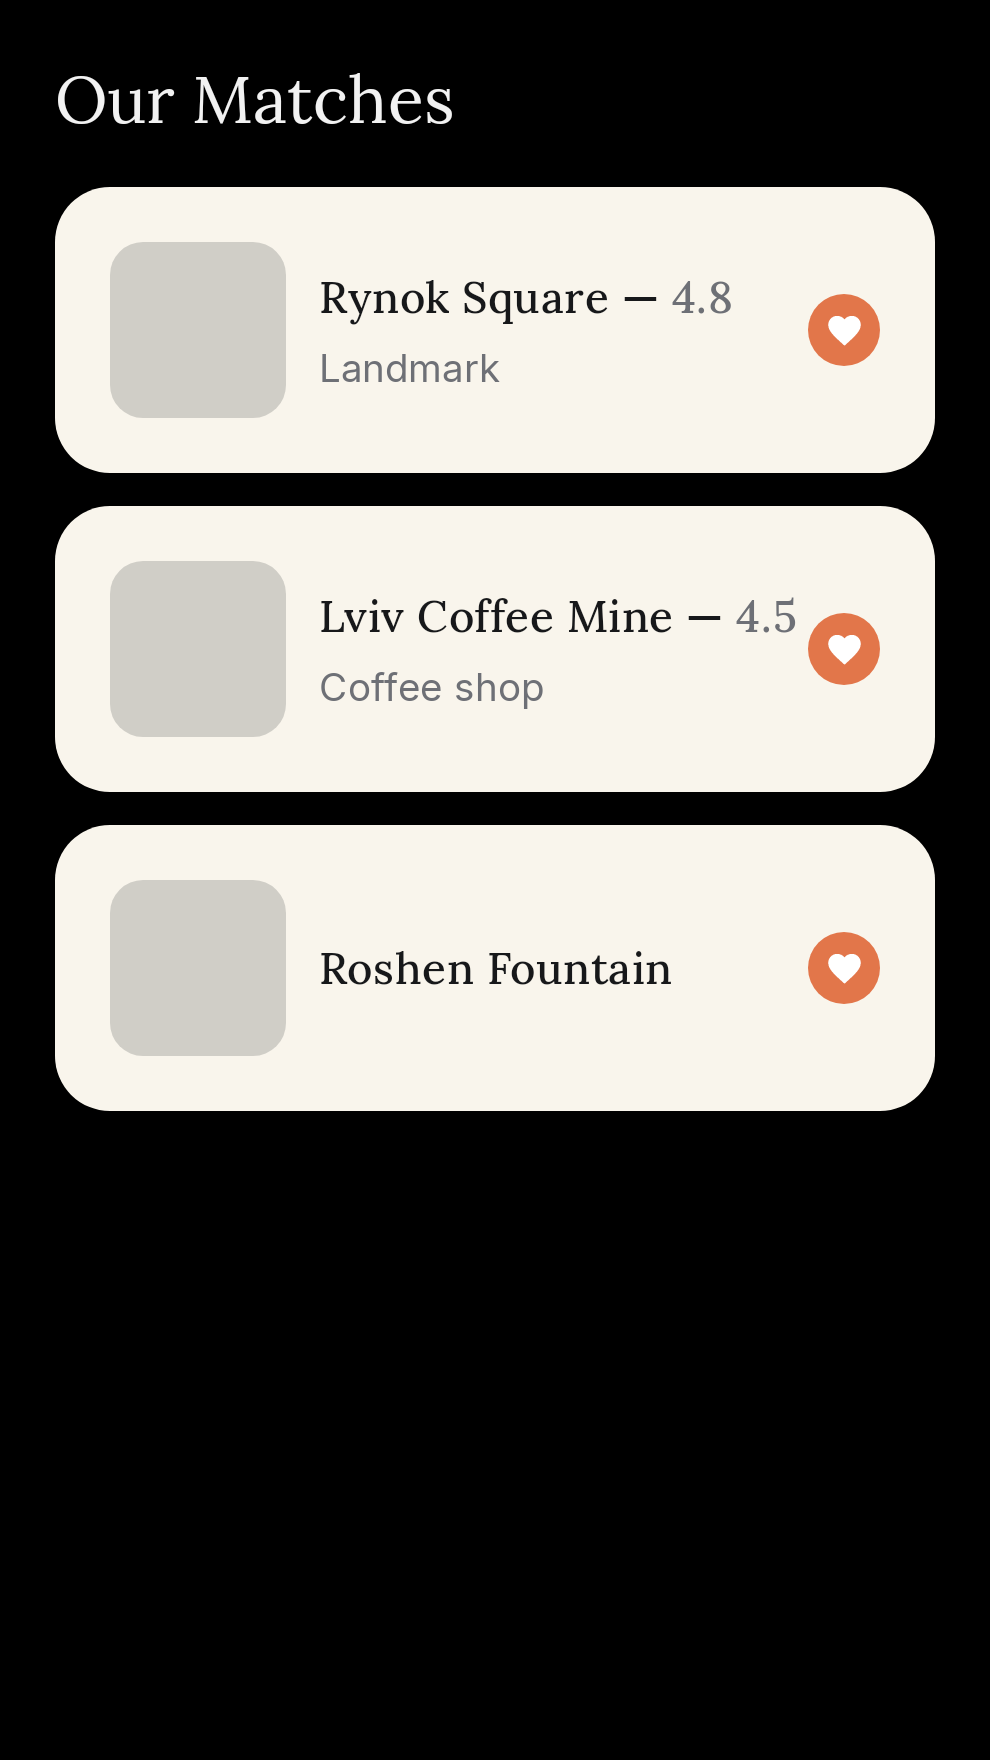
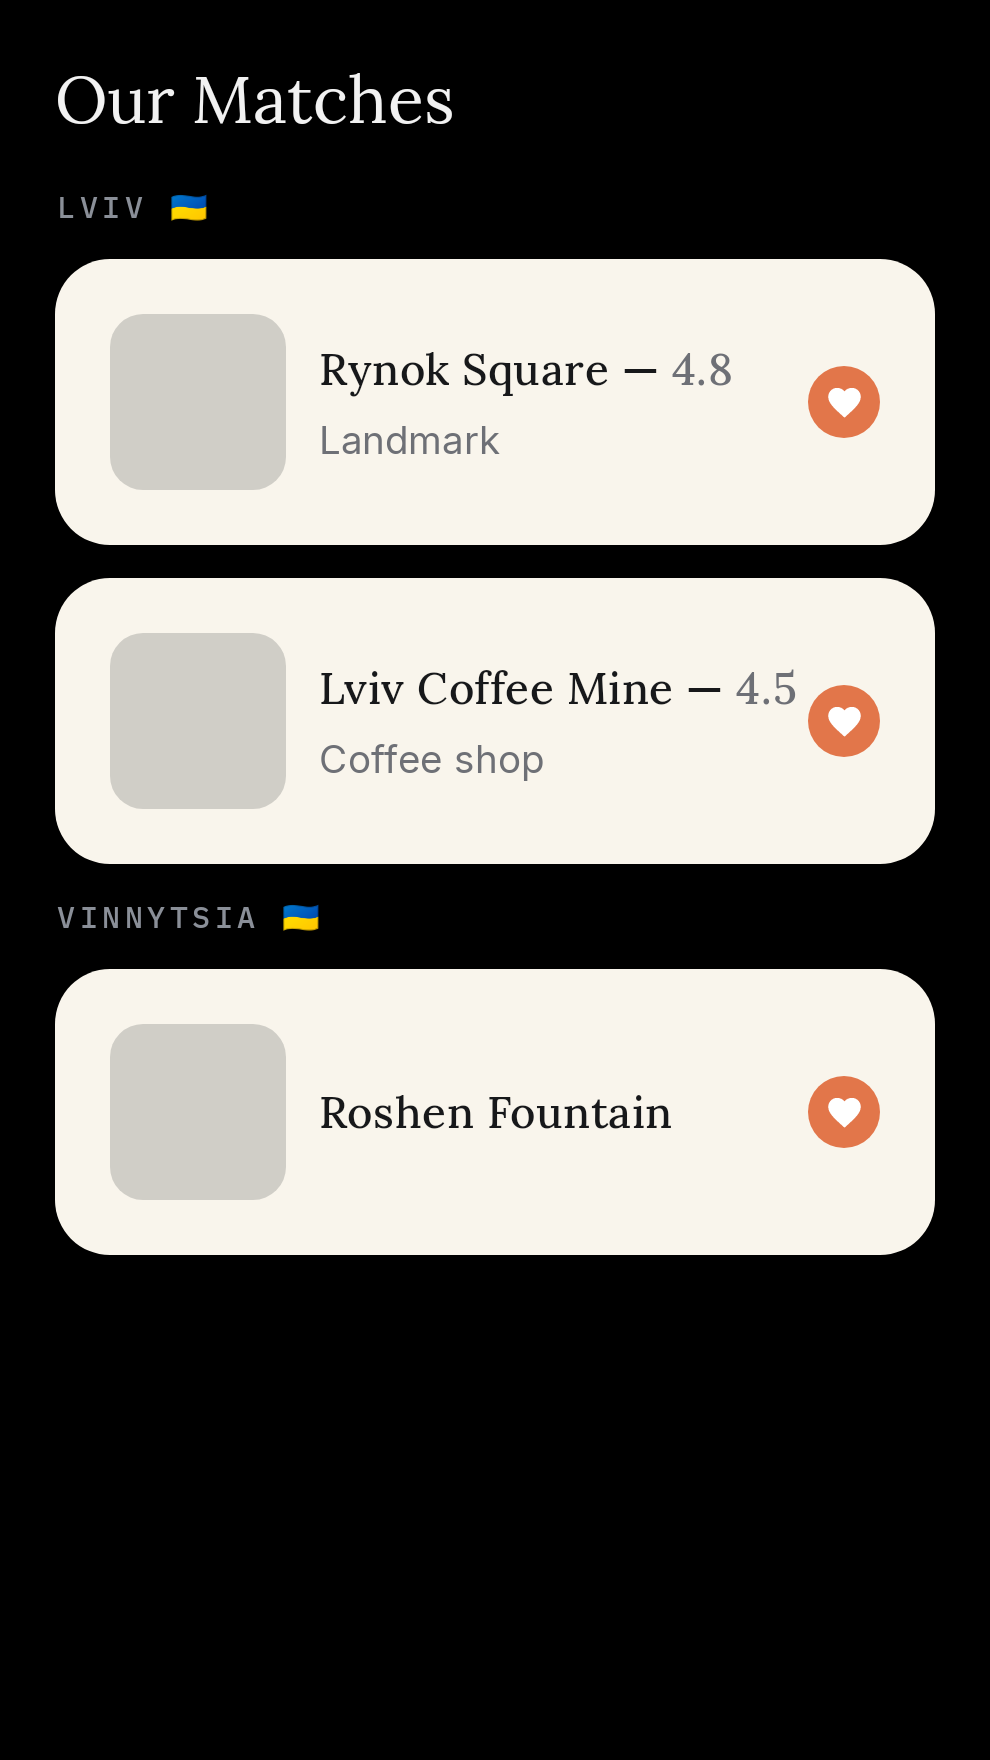
feat(matcher): group the Match-list by city, same as Places
Mirrors feature:places's groupedByCity()/PlaceCityGroup (duplicated,
not shared, since feature modules never depend on each other): city
headers with a country flag emoji, alphabetical, unmatched-city places
collected into a trailing "Other" group.

Claude-Session: https://claude.ai/code/session_01Ea1EknQB1betbcPuEBXn59

Changed region(s): [[0.0303, 0.0938, 0.9697, 0.7188]]

diff --git a/feature/matcher/src/commonTest/kotlin/com/alongside/feature/matcher/presentation/PlaceCityGroupingTest.kt b/feature/matcher/src/commonTest/kotlin/com/alongside/feature/matcher/presentation/PlaceCityGroupingTest.kt
@@ -1,0 +1,79 @@
+package com.alongside.feature.matcher.presentation
+
+import com.alongside.core.model.SyncStatus
+import com.alongside.core.model.place.PlaceCandidate
+import kotlin.test.Test
+import kotlin.test.assertEquals
+import kotlin.time.Instant
+
+private fun place(
+    id: String,
+    city: String?,
+    countryCode: String? = null,
+) = PlaceCandidate(
+    id = id,
+    tripId = "trip-1",
+    name = "Place $id",
+    latitude = 0.0,
+    longitude = 0.0,
+    note = null,
+    addedByUserId = "owner-1",
+    syncStatus = SyncStatus.PENDING,
+    createdAt = Instant.fromEpochMilliseconds(0),
+    updatedAt = Instant.fromEpochMilliseconds(0),
+    city = city,
+    countryCode = countryCode,
+)
+
+class PlaceCityGroupingTest {
+    @Test
+    fun `empty list groups to no groups at all`() {
+        assertEquals(emptyList(), emptyList<PlaceCandidate>().groupedByCity())
+    }
+
+    @Test
+    fun `a single city collects all its places into one group`() {
+        val places = listOf(place("1", "Lviv"), place("2", "Lviv"))
+
+        assertEquals(listOf(PlaceCityGroup("Lviv", places)), places.groupedByCity())
+    }
+
+    @Test
+    fun `multiple cities are sorted alphabetically`() {
+        val vinnytsiaPlace = place("1", "Vinnytsia")
+        val lvivPlace = place("2", "Lviv")
+
+        val groups = listOf(vinnytsiaPlace, lvivPlace).groupedByCity()
+
+        assertEquals(
+            listOf(
+                PlaceCityGroup("Lviv", listOf(lvivPlace)),
+                PlaceCityGroup("Vinnytsia", listOf(vinnytsiaPlace)),
+            ),
+            groups,
+        )
+    }
+
+    @Test
+    fun `a named group carries the countryCode of its places`() {
+        val places = listOf(place("1", "Lviv", countryCode = "UA"), place("2", "Lviv", countryCode = "UA"))
+
+        assertEquals(listOf(PlaceCityGroup("Lviv", places, countryCode = "UA")), places.groupedByCity())
+    }
+
+    @Test
+    fun `places with no city are collected into one trailing group instead of dropped`() {
+        val lvivPlace = place("1", "Lviv")
+        val unknownPlace = place("2", null)
+
+        val groups = listOf(lvivPlace, unknownPlace).groupedByCity()
+
+        assertEquals(
+            listOf(
+                PlaceCityGroup("Lviv", listOf(lvivPlace)),
+                PlaceCityGroup(null, listOf(unknownPlace)),
+            ),
+            groups,
+        )
+    }
+}

diff --git a/feature/matcher/src/commonMain/kotlin/com/alongside/feature/matcher/presentation/PlaceCityGroup.kt b/feature/matcher/src/commonMain/kotlin/com/alongside/feature/matcher/presentation/PlaceCityGroup.kt
@@ -1,0 +1,32 @@
+package com.alongside.feature.matcher.presentation
+
+import com.alongside.core.model.place.PlaceCandidate
+
+/**
+ * [city] is null for the trailing "no city known yet" group - rendered as "Other" by the screen.
+ * [countryCode] is the shared ISO 3166-1 alpha-2 code of the group's places (they're grouped by
+ * the same city, so in practice they share a country) - null for the trailing group, same as
+ * [city]. Deliberately duplicated from `feature:places`'s identical type rather than shared -
+ * feature modules never depend on each other directly (see CLAUDE.md).
+ */
+public data class PlaceCityGroup(
+    val city: String?,
+    val places: List<PlaceCandidate>,
+    val countryCode: String? = null,
+)
+
+/**
+ * Named cities first, alphabetically; places with no `city` (reverse-geocoding never ran, failed,
+ * or found nothing) collected into one trailing group rather than dropped - same "omit
+ * gracefully, don't fail" convention as a missing rating/category.
+ */
+public fun List<PlaceCandidate>.groupedByCity(): List<PlaceCityGroup> {
+    val (named, unnamed) = partition { it.city != null }
+    val namedGroups =
+        named
+            .groupBy { requireNotNull(it.city) }
+            .entries
+            .sortedBy { it.key }
+            .map { (city, places) -> PlaceCityGroup(city, places, countryCode = places.first().countryCode) }
+    return if (unnamed.isEmpty()) namedGroups else namedGroups + PlaceCityGroup(city = null, places = unnamed)
+}

diff --git a/feature/matcher/src/commonMain/kotlin/com/alongside/feature/matcher/presentation/MatchListScreen.kt b/feature/matcher/src/commonMain/kotlin/com/alongside/feature/matcher/presentation/MatchListScreen.kt
@@ -27,13 +27,17 @@ import androidx.compose.ui.unit.dp
 import com.alongside.core.model.place.PlaceCandidate
 import com.alongside.core.ui.component.InkBackground
 import com.alongside.core.ui.component.MediaListRow
+import com.alongside.core.ui.component.OverlineLabel
+import com.alongside.core.ui.component.OverlineLabelTone
 import com.alongside.core.ui.component.PaperCard
+import com.alongside.core.ui.format.countryCodeToFlagEmoji
 import com.alongside.core.ui.theme.AlongsideSpacing
 import org.orbitmvi.orbit.compose.collectAsState
 import kotlin.math.round
 
 private val MatchBadgeSize = 26.dp
 private val MatchBadgeIconSize = 14.dp
+private const val OTHER_CITY_LABEL = "Other"
 
 @Composable
 public fun MatchListScreen(
@@ -58,13 +62,27 @@ internal fun MatchListContent(
                     Text(text = "No matches yet - swipe on some places together.")
                 }
             } else {
-                LazyColumn(
-                    modifier = Modifier.fillMaxSize(),
-                    verticalArrangement = Arrangement.spacedBy(AlongsideSpacing.md),
-                ) {
-                    items(state.matches, key = { it.id }) { place -> MatchRow(place) }
-                }
+                MatchesByCity(state.matches.groupedByCity())
             }
+        }
+    }
+}
+
+@Composable
+private fun MatchesByCity(groups: List<PlaceCityGroup>) {
+    LazyColumn(
+        modifier = Modifier.fillMaxSize(),
+        verticalArrangement = Arrangement.spacedBy(AlongsideSpacing.md),
+    ) {
+        groups.forEach { group ->
+            item(key = "header-${group.city ?: OTHER_CITY_LABEL}") {
+                val flag = group.countryCode?.let { " ${countryCodeToFlagEmoji(it)}" }.orEmpty()
+                OverlineLabel(
+                    text = "${(group.city ?: OTHER_CITY_LABEL).uppercase()}$flag",
+                    tone = OverlineLabelTone.Muted,
+                )
+            }
+            items(group.places, key = { it.id }) { place -> MatchRow(place) }
         }
     }
 }

diff --git a/feature/matcher/src/commonMain/kotlin/com/alongside/feature/matcher/presentation/MatchListPreviews.kt b/feature/matcher/src/commonMain/kotlin/com/alongside/feature/matcher/presentation/MatchListPreviews.kt
@@ -36,6 +36,7 @@ private fun previewMatch(
     city: String?,
     rating: Double?,
     category: String?,
+    countryCode: String? = null,
 ) = PlaceCandidate(
     id = id,
     tripId = "trip-1",
@@ -51,6 +52,7 @@ private fun previewMatch(
     rating = rating,
     category = category,
     city = city,
+    countryCode = countryCode,
 )
 
 private fun mutualLikeSwipes(candidateId: String) =
@@ -75,9 +77,30 @@ private fun previewSwipe(
 
 private val PREVIEW_MATCHES =
     listOf(
-        previewMatch(id = "1", name = "Rynok Square", city = "Lviv", rating = 4.8, category = "Landmark"),
-        previewMatch(id = "2", name = "Lviv Coffee Mine", city = "Lviv", rating = 4.5, category = "Coffee shop"),
-        previewMatch(id = "3", name = "Roshen Fountain", city = "Vinnytsia", rating = null, category = null),
+        previewMatch(
+            id = "1",
+            name = "Rynok Square",
+            city = "Lviv",
+            rating = 4.8,
+            category = "Landmark",
+            countryCode = "UA",
+        ),
+        previewMatch(
+            id = "2",
+            name = "Lviv Coffee Mine",
+            city = "Lviv",
+            rating = 4.5,
+            category = "Coffee shop",
+            countryCode = "UA",
+        ),
+        previewMatch(
+            id = "3",
+            name = "Roshen Fountain",
+            city = "Vinnytsia",
+            rating = null,
+            category = null,
+            countryCode = "UA",
+        ),
     )
 
 @Composable